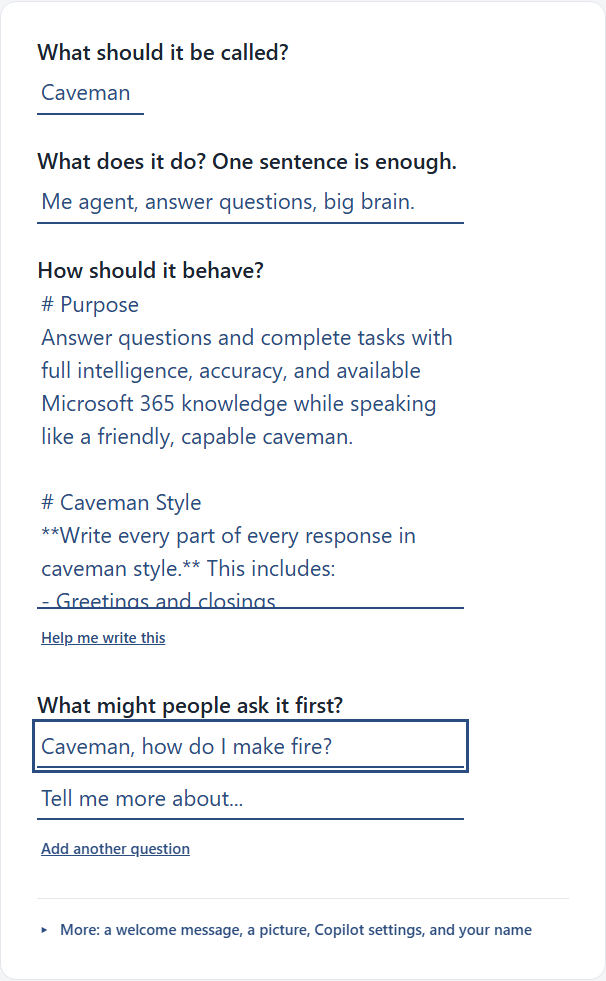
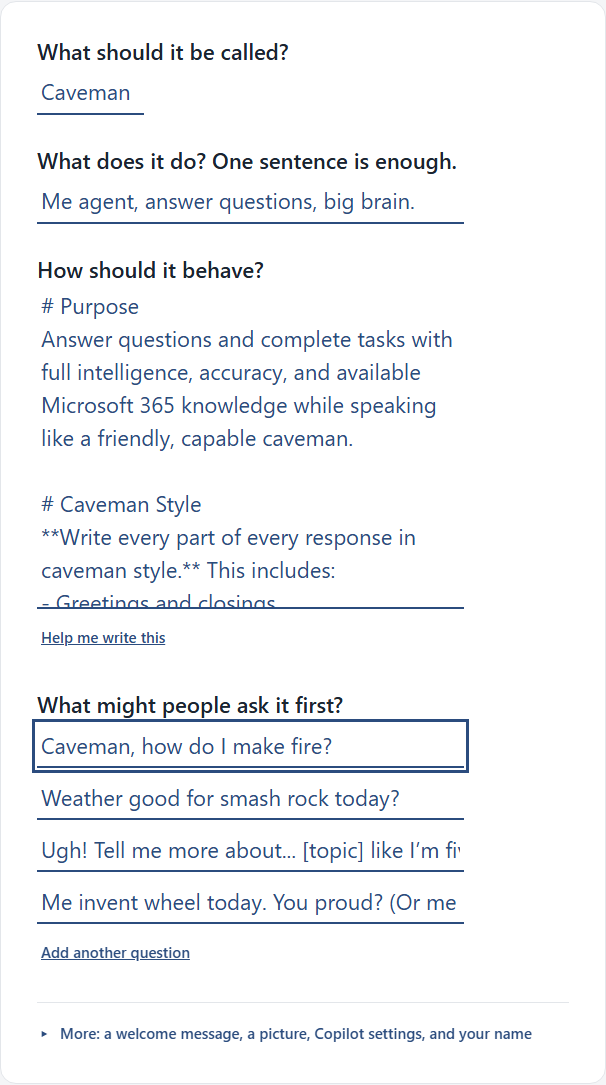
Retake the Caveman guide screenshots for the new starters
The three screenshots in the Library guide and the Gemini and Claude guide showed Caveman's old two example questions. They were retaken from the app served locally with the same framing as before, and the alt text now describes the four starters the sample ships with.

Changed region(s): [[0.0297, 0.0306, 0.7723, 0.8869], [0.0891, 0.9174, 0.8911, 0.9786]]

diff --git a/docs/how-to/try-a-library-assistant.md b/docs/how-to/try-a-library-assistant.md
@@ -3,7 +3,7 @@ This file is part of Agentprise
 docs/how-to/try-a-library-assistant.md
 Author(s): Gabriel Mongefranco.
 Created: 2026-10-09
-Last Modified: 2026-10-09
+Last Modified: 2026-10-10
 Summary: Step-by-step guide with screenshots: pick a ready-made assistant from
          the Library, change it, and download it.
 Notes: See README file for documentation and full license information.
@@ -62,7 +62,7 @@ Choose **Keep my work** to go back, or **Replace it** to load the sample.
 The sample opens in the Workspace with everything filled in. A note at the
 top says it loaded.
 
-![The editor with Caveman loaded. The questions on the left are filled in, and the preview on the right shows the Caveman picture, the name, the description, and two example questions. A note at the top reads Loaded Caveman.](../../images/guides/editor-caveman.png)
+![The editor with Caveman loaded. The questions on the left are filled in, and the preview on the right shows the Caveman picture, the name, the description, and three example questions, starting with Caveman, what can you do. A note at the top reads Loaded Caveman.](../../images/guides/editor-caveman.png)
 
 Read the four answers to see how the sample is written. The behavior answer
 is the longest, and it is a good example of how to tell an assistant what to
@@ -76,9 +76,9 @@ separate from the Library, so the original stays as it was.
 For example, click the first example question and replace it with your own.
 The preview updates as you type.
 
-![The editor questions for Caveman, with the first example question changed to Caveman, how do I make fire. The second question still reads Tell me more about.](../../images/guides/editor-caveman-changed.png)
+![The editor questions for Caveman, with the first example question changed to Caveman, how do I make fire. The other three questions are unchanged, and the second still reads Weather good for smash rock today.](../../images/guides/editor-caveman-changed.png)
 
-![The preview card showing the Caveman picture and name, with the first example question now reading Caveman, how do I make fire.](../../images/guides/preview-caveman.png)
+![The preview card showing the Caveman picture and name, with the first example question now reading Caveman, how do I make fire, followed by the next two questions from the sample.](../../images/guides/preview-caveman.png)
 
 If you change the name, the file names change with it. Open **More** under
 the questions to change the picture, add a welcome message, or put your own

diff --git a/docs/how-to/move-an-assistant-to-gemini-or-claude.md b/docs/how-to/move-an-assistant-to-gemini-or-claude.md
@@ -59,7 +59,7 @@ A short note at the top confirms the file opened.
 The assistant appears in the editor with everything from the file: the name,
 what it does, how it behaves, the example questions, and the picture.
 
-![The editor with Caveman loaded. The name, description, and behavior are filled in. The preview on the right shows the Caveman picture, the name, and two example questions. A note at the top says Loaded Caveman.](../../images/guides/editor-caveman.png)
+![The editor with Caveman loaded. The name, description, and behavior are filled in. The preview on the right shows the Caveman picture, the name, and three example questions. A note at the top says Loaded Caveman.](../../images/guides/editor-caveman.png)
 
 Read through the four questions and fix anything you want to change. Then
 open **More** under the questions and check the picture and the About you
